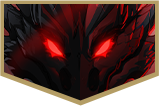
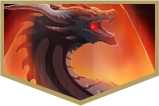
Added more cards, style fixes

diff --git a/game.js b/game.js
@@ -21,12 +21,15 @@
 const MAX_ENERGY = 3;
 const HAND_SIZE = 5;
 const PLAYER_MAX_HP = 30;
-const ENEMY_MAX_HP = 50;
 
 const CARD_STRIKE = 'strike';
 const CARD_DEFEND = 'defend';
 const CARD_POWER_UP = 'powerUp';
+const CARD_CHOMP = 'chomp';
+const CARD_HEAL = 'heal';
+const CARD_REPEL = 'repel';
 
+const ALL_CARDS_UNLOCKED = false; // for testing: set to true to unlock all cards from the start
 /**
  * Card definitions. Each card has:
  *   id     — matches key, used as CSS class name
@@ -35,7 +38,7 @@ const CARD_POWER_UP = 'powerUp';
  *   art    — emoji icon fallback
  *   img    — image asset used for card art
  *   desc   — flavour / effect description shown on card
- *   type   — 'attack' | 'defend'
+ *   type   — 'attack' | 'defend' | 'repel'
  *   value  — damage dealt or block gained
  */
 
@@ -58,57 +61,77 @@ const CARD_DEFS = {
     id: 'powerUp', name: 'Power Up', cost: 2,
     art: '⚡', img: 'resources/cardPowerUp.png', desc: 'Double next attack',
     type: 'power', multiplier: 2,
-    unlocked: true,
-    defaultUnlocked: true,
+    unlocked: ALL_CARDS_UNLOCKED,
+    defaultUnlocked: ALL_CARDS_UNLOCKED,
   },
-  powerStrike: {
-    id: 'powerStrike', name: 'Power Strike', cost: 1,
-    art: '⚔', img: 'resources/cardStrike.png', desc: 'Deal 8 damage',
+  chomp: {
+    id: 'chomp', name: 'Chomp', cost: 1,
+    art: '⚔', img: 'resources/cardChomp.png', desc: 'Deal 8 damage',
     type: 'attack', value: 8,
-    unlocked: false,
-    defaultUnlocked: false,
+    unlocked: ALL_CARDS_UNLOCKED,
+    defaultUnlocked: ALL_CARDS_UNLOCKED,
   },
+  heal: {
+    id: 'heal', name: 'Heal', cost: 2,
+    art: '❤', img: 'resources/cardHeal.png', desc: 'Heal 8 HP',
+    type: 'heal', value: 8,
+    unlocked: ALL_CARDS_UNLOCKED,
+    defaultUnlocked: ALL_CARDS_UNLOCKED,
+  },
+  repel: {
+    id: 'repel', name: 'Repel', cost: 1,
+    art: '🛡', img: 'resources/cardRepel.png', desc: 'Gain 3 Block and Reflect 3 damage',
+    type: 'repel', value: 3,
+    reflect: 3,
+    unlocked: ALL_CARDS_UNLOCKED,
+    defaultUnlocked: ALL_CARDS_UNLOCKED,
+  }
 };
 const ENEMIES = [
   {
-    id: 'kera',
-    name: 'Kera The Fire Dragoness',
-    maxHp: 10,
-    sprite: 'resources/enemy1.png',
-    thumb: 'resources/enemy1checkpoint.png',
-    attacks: [
-      { id: 'flameBreath', name: 'Flame Breath', type: 'attack', value: 6 },
-      { id: 'emberShield', name: 'Ember Shield', type: 'defend', value: 6 },
-    ],
-    unlocks: ['powerStrike'],
-  },
-  {
-    id: 'ashling',
-    name: 'Ashling Warden',
-    maxHp: 6,
-    sprite: 'resources/enemy2.png',
-    thumb: 'resources/enemy2checkpoint.png',
-    attacks: [
-      { id: 'emberClaw', name: 'Ember Claw', type: 'attack', value: 5 },
-      { id: 'heatBarrier', name: 'Heat Barrier', type: 'defend', value: 8 },
-    ],
-    unlocks: [],
-  },
-  {
-    id: 'benzo',
-    name: 'Benzo The Ice Dragon',
-    maxHp: 6,
+    id: 'znichar',
+    name: 'Znichar Beast',
+    maxHp: 20,
     sprite: 'resources/enemy3.png',
     thumb: 'resources/enemy3checkpoint.png',
     attacks: [
-      { id: 'emberClaw', name: 'Ember Claw', type: 'attack', value: 5 },
-      { id: 'heatBarrier', name: 'Heat Barrier', type: 'defend', value: 8 },
+      { id: 'claw', name: 'Claws Strike', type: 'attack', value: 10 },
+      { id: 'powerClaw', name: 'Power Claw', type: 'attack', value: 16 },
+      { id: 'spinesBarrier', name: 'Spines Barrier', type: 'defend', value: 8 },
     ],
-    unlocks: [],
+    unlocks: ['powerUp', 'chomp'],
+  },
+  {
+    id: 'beryl',
+    name: 'Beryl The Bronze Dragon',
+    maxHp: 20,
+    sprite: 'resources/enemy2.png',
+    thumb: 'resources/enemy2checkpoint.png',
+    attacks: [
+      { id: 'bite', name: 'Dragon Bite', type: 'attack', value: 7 },
+      { id: 'scalesBarrier', name: 'Scales Barrier', type: 'defend', value: 10 },
+    ],
+    unlocks: ['repel', 'heal'],
+  },
+    {
+    id: 'kera',
+    name: 'Kera The Fire Dragoness',
+    maxHp: 20,
+    sprite: 'resources/enemy1.png',
+    thumb: 'resources/enemy1checkpoint.png',
+    attacks: [
+      { id: 'flameBreath', name: 'Flame Breath', type: 'attack', value: 15 },
+      { id: 'emberShield', name: 'Ember Shield', type: 'defend', value: 12 },
+    ],
+
   },
 ];
 /** The player's starting deck (card IDs). */
-const STARTING_DECK = [CARD_STRIKE, CARD_STRIKE, CARD_STRIKE, CARD_DEFEND, CARD_DEFEND, CARD_POWER_UP, CARD_POWER_UP];
+const STARTING_DECK =
+  ALL_CARDS_UNLOCKED
+    ? [CARD_STRIKE, CARD_STRIKE, CARD_STRIKE, CARD_DEFEND, CARD_DEFEND, CARD_POWER_UP, CARD_CHOMP, CARD_HEAL, CARD_REPEL]
+    : [CARD_STRIKE, CARD_STRIKE, CARD_STRIKE, CARD_DEFEND, CARD_DEFEND];
+
 let playerDeck = [...STARTING_DECK];
 let rewardOverlayNextAction = null;
 
@@ -142,7 +165,7 @@ function initGame(enemyIndex = 0) {
   const preservedHp = gs?.player?.hp > 0 ? Math.min(gs.player.hp, PLAYER_MAX_HP) : PLAYER_MAX_HP;
 
   gs = {
-    player: { hp: preservedHp, maxHp: PLAYER_MAX_HP, block: 0, nextAttackMultiplier: 1 },
+    player: { hp: preservedHp, maxHp: PLAYER_MAX_HP, block: 0, nextAttackMultiplier: 1, repelNextAttack: 0 },
     currentEnemyIndex: enemyIndex,
     enemy: spawnEnemy(ENEMIES[enemyIndex]),
     energy: MAX_ENERGY,
@@ -313,19 +336,34 @@ function playCard(idx) {
   gs.hand.splice(idx, 1);
   gs.discard.push(cardId);
 
-  if (def.type === 'attack') {
-    const damage = def.value * gs.player.nextAttackMultiplier;
-    if (gs.player.nextAttackMultiplier > 1) {
-      gs.player.nextAttackMultiplier = 1;
-      showFloatNum('#player-pane', '⚡ Attack Doubled!', '#ffd166');
-    }
-    applyAttack(gs.enemy, '#enemy-pane', damage, "You strike the Drake for", "Your blow is absorbed by the Drake's ward!");
-  } else if (def.type === 'defend') {
-    gs.player.block += def.value;
-    showFloatNum('#player-pane', `+${def.value} 🛡`, '#5ba3f5');
-  } else if (def.type === 'power') {
-    gs.player.nextAttackMultiplier = def.multiplier || 2;
-    showFloatNum('#player-pane', '⚡ Next attack doubled!', '#ffd166');
+  switch (def.type) {
+    case 'attack':
+      const damage = def.value * gs.player.nextAttackMultiplier;
+      if (gs.player.nextAttackMultiplier > 1) {
+        gs.player.nextAttackMultiplier = 1;
+        showFloatNum('#player-pane', '⚡ Attack Doubled!', '#ffd166');
+      }
+      applyAttack(gs.enemy, '#enemy-pane', damage, "You strike the Drake for", "Your blow is absorbed by the Drake's ward!");
+      break;
+    case 'defend':
+      gs.player.block += def.value;
+      showFloatNum('#player-pane', `+${def.value} 🛡`, '#5ba3f5');
+      break;
+    case 'power':
+      gs.player.nextAttackMultiplier = def.multiplier || 2;
+      showFloatNum('#player-pane', '⚡ Next attack doubled!', '#ffd166');
+      break;
+    case 'heal':
+      const healAmount = def.value;
+      gs.player.hp = Math.min(gs.player.maxHp, gs.player.hp + healAmount);
+      showFloatNum('#player-pane', `+${healAmount} HP`, '#66bb6a');
+      break;
+    case 'repel':
+      gs.player.block += def.value;
+      gs.player.repelNextAttack = def.reflect || 0;
+      showFloatNum('#player-pane', `+${def.value} 🛡`, '#5ba3f5');
+    default:
+      console.warn(`Unknown card type: ${def.type}`);
   }
 
   renderAll();
@@ -351,6 +389,13 @@ function applyAttack(target, paneId, damage, hitMsg, blockMsg) {
     shakeEl(paneId);
   } else {
     showFloatNum(paneId, '🛡', '#5ba3f5');
+  }
+  console.log('Repel?');
+  console.log(gs.player.repelNextAttack);
+  if (gs.player.repelNextAttack > 0) {
+    gs.enemy.hp = Math.max(0, gs.enemy.hp - gs.player.repelNextAttack);
+    showFloatNum('#enemy-pane', `-${gs.player.repelNextAttack} (reflected)`, '#ff6040');
+    gs.player.repelNextAttack = 0;
   }
 }
 
@@ -466,10 +511,9 @@ function renderEnemyInfo() {
 
 function renderHP() {
   const { player: p, enemy: e } = gs;
-
-  document.getElementById('player-hp').textContent = p.hp;
+  document.getElementById('player-hp').textContent = `${p.hp} / ${p.maxHp}`;
   document.getElementById('player-hp-bar').style.width = `${(p.hp / p.maxHp) * 100}%`;
-  document.getElementById('enemy-hp').textContent = e.hp;
+  document.getElementById('enemy-hp').textContent = `${e.hp} / ${e.maxHp}`;
   document.getElementById('enemy-hp-bar').style.width = `${(e.hp / e.maxHp) * 100}%`;
 }
 
@@ -522,15 +566,12 @@ function renderHand() {
           : attackValue;
         description = `Deal ${attackValueText} damage.`;
         break;
-      case 'defend':
-        description = def.desc;
-        break;
-      case 'power':
+      default:
         description = def.desc;
         break;
     }
 
-    const type = def.type === 'attack' ? 'swords' : def.type === 'defend' ? 'shield' : 'airwave';
+    const type = def.type === 'attack' ? 'swords' : def.type === 'defend' || def.type === 'repel' ? 'shield' : 'airwave';
 
     card.innerHTML = `
       <div class="card-cost">${def.cost}</div>

diff --git a/index.html b/index.html
@@ -29,8 +29,11 @@
   <!-- Start game map overlay -->
   <div id="map-overlay" class="show">
     <div class="map-card">
-      <h2>Path of Flame</h2>
-      <p>Choose your next level. Only unlocked enemies can be challenged — defeat one to unlock the next.</p>
+      <div class="header">
+        <h1>⚔ Dragonarok ⚔</h1>
+        <p>Dragon Gods · Card Game</p>
+      </div>
+      <p>Choose your next level. Only unlocked enemies can be challenged. Defeat one to unlock the next.</p>
       <div id="map-list"></div>
       <div class="map-actions">
         <button class="action-btn max-width-btn" id="map-start-btn" onclick="startSelectedEnemy()">Begin Battle</button>
@@ -84,22 +87,16 @@
   <!-- ── Main game layout ── -->
   <div id="game">
 
-    <div id="header">
-      <div class="header-top">
-        <div>
-          <h1>⚔ Dragonarok ⚔</h1>
-          <p>Dragon Gods · Card Game</p>
-        </div>
-        <div style="display: flex; gap: 10px;">
-          <button id="deck-btn" class="icon-button" onclick="showUnlockedDeck()">
-            <span class="material-symbols-outlined">inventory_2</span>
-            Unlocked Deck</button>
-          <button id="howto-btn" class="icon-button" onclick="showHowTo()">
-            <span class="material-symbols-outlined">help</span>
-            How to Play</button>
-        </div>
-      </div>
+    <div class="game-menu">
+      <button id="deck-btn" class="icon-button" onclick="showUnlockedDeck()">
+        <span class="material-symbols-outlined">inventory_2</span>
+      </button>
+      <button id="howto-btn" class="icon-button" onclick="showHowTo()">
+        <span class="material-symbols-outlined">help</span>
+      </button>
     </div>
+
+
 
     <!-- ── Battlefield: Enemy (left) vs Player (right) ── -->
     <div id="battlefield">
@@ -131,7 +128,7 @@
         <div class="hp-section">
           <div class="hp-label">
             <span>HP</span>
-            <span class="hp-value"><span id="enemy-hp">50</span> / 50</span>
+            <span class="hp-value"><span id="enemy-hp">50</span></span>
           </div>
           <div class="hp-track">
             <div class="hp-fill enemy" id="enemy-hp-bar" style="width:100%"></div>
@@ -152,7 +149,7 @@
           <div class="hp-section">
             <div class="hp-label">
               <span>HP</span>
-              <span class="hp-value"><span id="player-hp">30</span> / 30</span>
+              <span class="hp-value"><span id="player-hp"></span></span>
             </div>
             <div class="hp-track">
               <div class="hp-fill player" id="player-hp-bar" style="width:100%"></div>

diff --git a/styles/other.css b/styles/other.css
@@ -59,32 +59,32 @@ body::after {
 }
 
 #game {
+  width: 100%;
   position: relative;
   z-index: 1;
   display: flex;
   flex-direction: column;
   height: 100vh;
-  max-width: 1100px;
   margin: 0 auto;
   padding: 16px 20px;
   gap: 12px;
 }
 
-#header {
+.header {
   text-align: center;
   padding: 6px 0 2px;
   flex-shrink: 0;
 }
 
-#header h1 {
+.header h1 {
   font-family: 'Cinzel Decorative', cursive;
-  font-size: 1.15rem;
+  font-size: 2rem;
   color: var(--gold);
-  letter-spacing: 0.3em;
+  letter-spacing: 0.1em;
   text-shadow: 0 0 20px rgba(201, 168, 76, 0.5), 0 2px 4px rgba(0, 0, 0, 0.8);
 }
 
-#header p {
+.header p {
   font-family: 'Cinzel', serif;
   font-size: 0.6rem;
   color: var(--text-dim);
@@ -92,11 +92,14 @@ body::after {
   margin-top: 2px;
 }
 
-.header-top {
+
+.game-menu {
   display: flex;
   align-items: center;
-  justify-content: space-between;
-  gap: 16px;
+  gap: 12px;
+  position: absolute;
+  top: 0px;
+  left: 0px;
 }
 
 #howto-btn,
@@ -207,11 +210,14 @@ body::after {
 }
 
 #battlefield {
+  width: 100%;
+  max-width: 800px;
   display: flex;
   flex-direction: column;
   gap: 14px;
   flex: 1;
   min-height: 0;
+  margin: auto;
 }
 
 #bottom-bar {
@@ -473,6 +479,7 @@ body::after {
 }
 
 @keyframes shake {
+
   0%,
   100% {
     transform: translateX(0);

diff --git a/styles/deck.css b/styles/deck.css
@@ -107,7 +107,7 @@
 .card {
   justify-content: start;
   width: 160px;
-  height: 200px;
+  height: 220px;
   background: linear-gradient(0deg, #241c1a 0%, #691e17 100%);
   border: 3px solid var(--card-border);
   border-radius: 9px;
